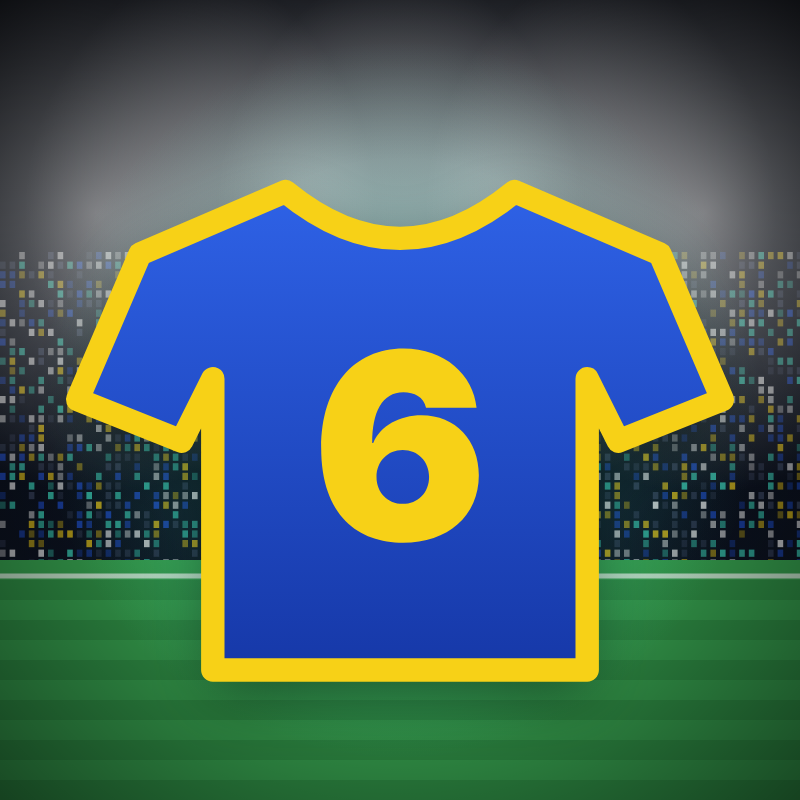
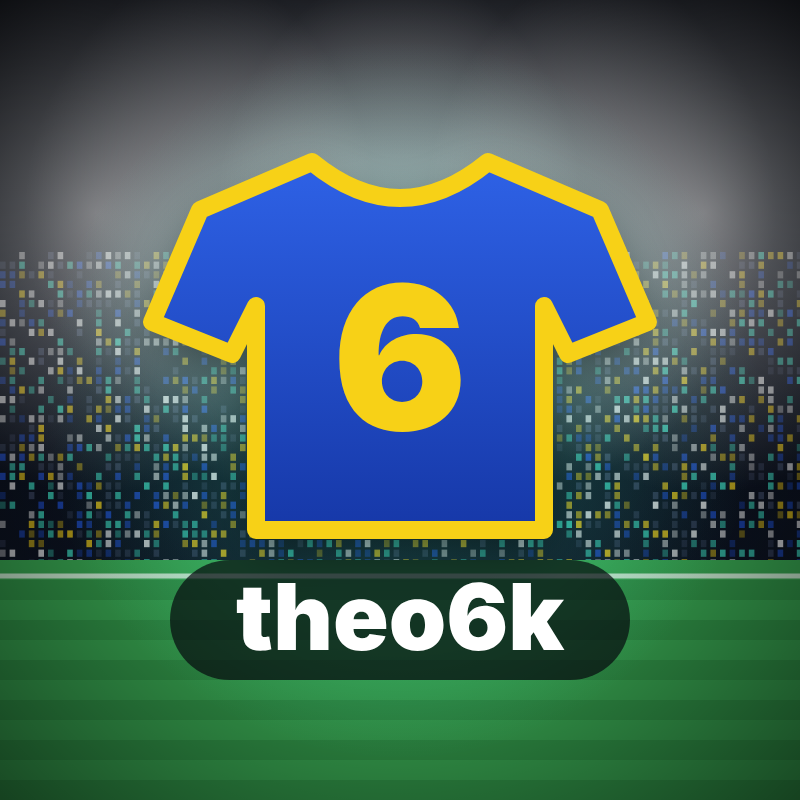
Profile picture: add theo6k name
Claude-Session: https://claude.ai/code/session_01XCfSYSe35JQT7i2iWhcNB7

Changed region(s): [[0.0625, 0.1875, 0.9375, 0.875]]

diff --git a/brand/make.html b/brand/make.html
@@ -20,7 +20,9 @@ function night(W,H,pitchY){let g=x.createLinearGradient(0,0,0,H);g.addColorStop(
  let v=x.createRadialGradient(W/2,H/2,Math.min(W,H)*.3,W/2,H/2,Math.max(W,H)*.75);v.addColorStop(0,'rgba(0,0,0,0)');v.addColorStop(1,'rgba(0,0,0,.6)');x.fillStyle=v;x.fillRect(0,0,W,H);}
 window.profile=()=>{c.width=c.height=800;night(800,800,560);
  const g=x.createRadialGradient(400,400,0,400,400,360);g.addColorStop(0,'rgba(63,224,197,.35)');g.addColorStop(1,'rgba(63,224,197,0)');x.fillStyle=g;x.fillRect(0,0,800,800);
- shirt(400,410,520);};
+ shirt(400,330,400);
+ x.fillStyle='rgba(6,8,14,.7)';rr(170,560,460,120,60);x.fill();
+ x.font='900 92px Inter, Arial Black, sans-serif';x.fillStyle='#ffffff';x.textAlign='center';x.textBaseline='middle';x.fillText('theo6k',400,622);};
 window.banner=()=>{const W=2560,H=1440;c.width=W;c.height=H;night(W,H,880);
  x.fillStyle='rgba(6,8,14,.55)';x.fillRect(0,H/2-260,W,520);
  // safe area 1546x423 centred
